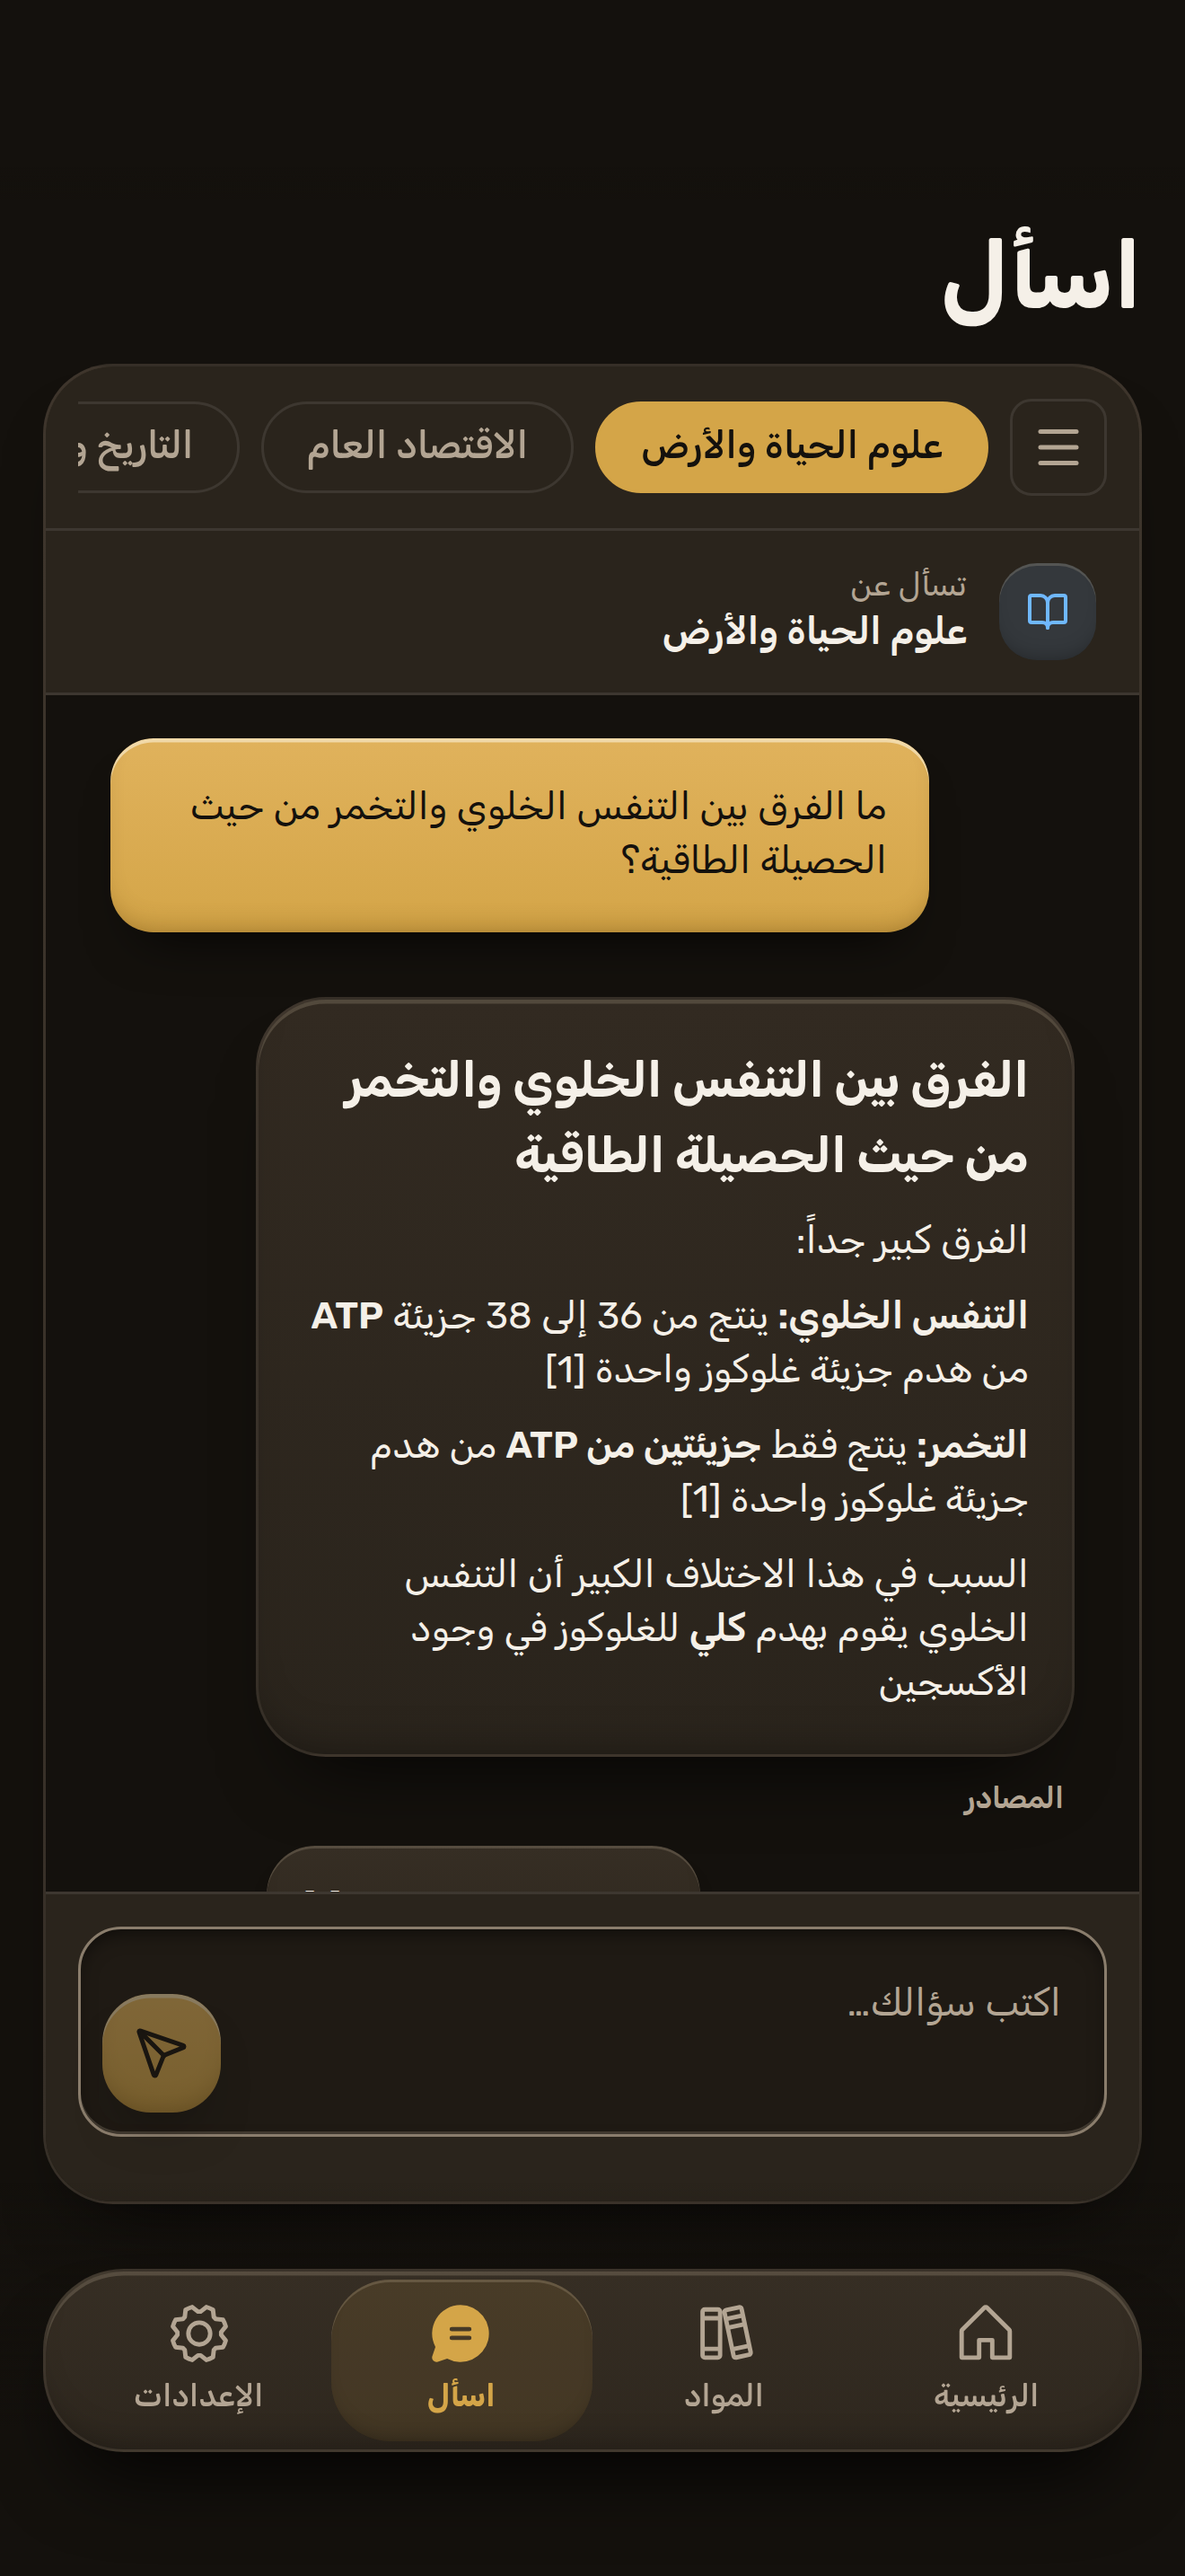
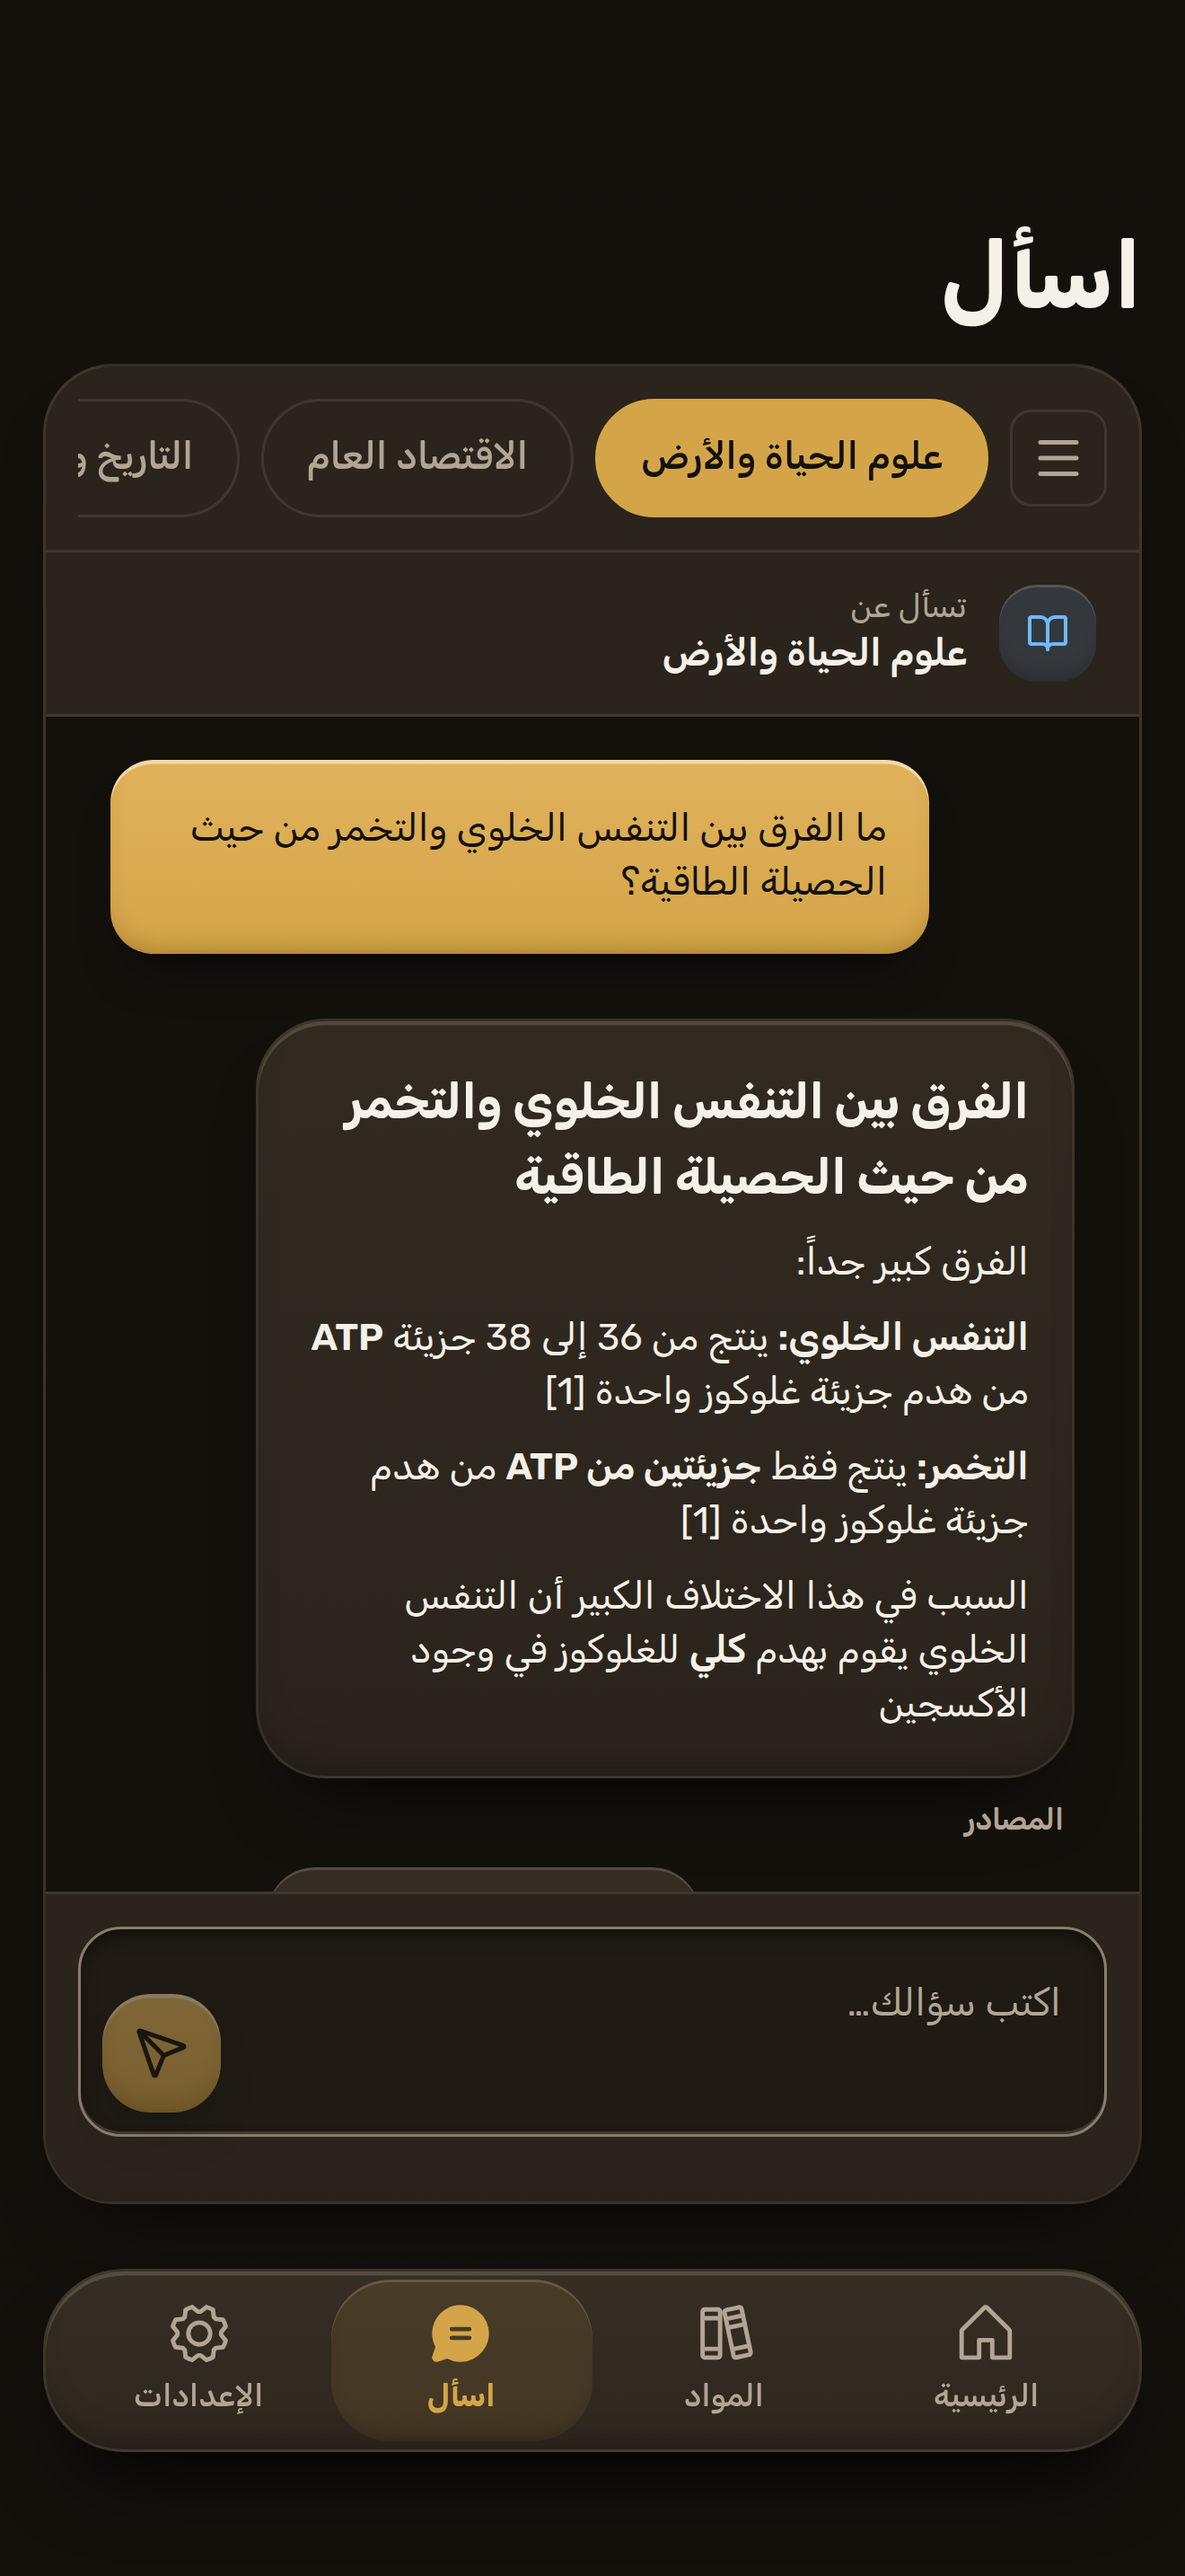
feat(legal, ask): the operator named on privacy and terms; Ask subject chips 44 pt (#284)
* feat(legal, ask): the operator named on the privacy and terms pages; Ask's subject chips 44 pt tall

Owner decisions of 2026-10-15. The privacy policy and the terms name
Abdelfettah Amellah, the individual seller of this account, as the person
who operates KnowFlow (the privacy page said "an independent developer";
the terms named nobody). Name only, no address or phone; the support
address is unchanged. Both pages are English on /ar as before, so there is
no Arabic text to change; the native twins re-export these pages.

Ask's subject chips were 34 px tall (20 px line, 6 px padding each side,
1 px borders), kept so only while store shot ar/04 needed them. The
screenshots are uploaded, so the chips are now min-h-11 (44 pt), the text
unchanged and centred.

* docs(review): the Ask chip renders before and after; the fit check expects the taller subject bar; Section 7 block

The four review renders of the Ask screen (ar and en, dark; before and
after the 44 pt chips) under docs/design/ask-chips/, from the PR's own
redesign-built run 38810697192; the seven drifted renders of
docs/store/fix-renders-2/ refreshed from the same run.

render-fix2.mjs: the "known open item" exemption for the 34 pt chips is
gone (the 44 x 44 target check now covers them), and the Store-Fix-2 fit
calibration expects the device's list height less the 8 px the taller
subject bar takes.

docs/PROGRESS.md Section 7: one block (operator decision, chips, the light
[…]

diff --git a/src/app/[locale]/(site)/terms/page.tsx b/src/app/[locale]/(site)/terms/page.tsx
@@ -10,10 +10,10 @@ export default async function TermsPage({ params }: { params: Promise<{ locale: 
     <div className="py-24" dir={isRtl ? 'rtl' : 'ltr'}>
       <div className="max-w-3xl mx-auto px-6 text-muted-foreground text-start">
         <h1 className="text-5xl font-bold mb-4 text-foreground">Terms of Service</h1>
-        <p className="text-sm uppercase tracking-wide font-medium text-primary mb-12">Last updated: September 2026</p>
+        <p className="text-sm uppercase tracking-wide font-medium text-primary mb-12">Last updated: October 2026</p>
 
         <h2 className="text-2xl font-semibold mt-8 mb-4 text-foreground">Acceptance of Terms</h2>
-        <p className="mb-6">By accessing or using KnowFlow, you agree to be bound by these Terms of Service. If you do not agree to these terms, please do not use our platform.</p>
+        <p className="mb-6">By accessing or using KnowFlow, you agree to be bound by these Terms of Service. They are an agreement between you and Abdelfettah Amellah, who operates KnowFlow; the contact address at the end of this page reaches the person responsible for it. If you do not agree to these terms, please do not use our platform.</p>
 
         <h2 className="text-2xl font-semibold mt-8 mb-4 text-foreground">Use of Service</h2>
         <p className="mb-6">You agree to use KnowFlow only for lawful purposes. You must not misuse the platform, attempt to reverse engineer our proprietary algorithms, or disrupt the service for other users.</p>

diff --git a/src/components/agent/SubjectChips.tsx b/src/components/agent/SubjectChips.tsx
@@ -21,6 +21,10 @@ export function SubjectChips({
   selectedId: string;
   onPick: (id: string) => void;
 }) {
+  // 44 pt tall (min-h-11): the iOS tap target. The chips were 34 px (20 px
+  // line, 6 px padding each side, 1 px borders) and stayed so only while the
+  // store shot ar/04 needed them (Store-Shots-1); the screenshots are uploaded,
+  // so the target wins. Height, not font: the text stays text-sm, centred.
   return (
     <div className="flex gap-2 overflow-x-auto">
       {subjects.map((kb) => (
@@ -30,7 +34,7 @@ export function SubjectChips({
           onClick={() => onPick(kb.id)}
           aria-pressed={selectedId === kb.id}
           className={cn(
-            'whitespace-nowrap rounded-full border px-4 py-1.5 text-sm font-medium transition-colors',
+            'inline-flex min-h-11 items-center whitespace-nowrap rounded-full border px-4 py-1.5 text-sm font-medium transition-colors',
             selectedId === kb.id
               ? 'border-primary bg-primary text-primary-foreground'
               : 'border-border text-muted-foreground hover:border-primary hover:text-foreground',

diff --git a/src/app/[locale]/(site)/privacy/page.tsx b/src/app/[locale]/(site)/privacy/page.tsx
@@ -12,7 +12,7 @@ export default async function PrivacyPage({ params }: { params: Promise<{ locale
         <h1 className="text-5xl font-bold mb-4 text-foreground">Privacy Policy</h1>
         <p className="text-sm uppercase tracking-wide font-medium text-primary mb-12">Last updated: October 2026</p>
 
-        <p className="mb-6">This Privacy Policy applies to KnowFlow, the study service at tryknowflow.com. KnowFlow is operated by an independent developer, and the contact address given below reaches the person responsible for it.</p>
+        <p className="mb-6">This Privacy Policy applies to KnowFlow, the study service at tryknowflow.com. KnowFlow is operated by Abdelfettah Amellah, and the contact address given below reaches the person responsible for it.</p>
 
         <h2 className="text-2xl font-semibold mt-8 mb-4 text-foreground">Information We Collect</h2>
         <p className="mb-6">We collect information you provide directly to us when you create an account, upload materials, or contact us. This includes your name, your email address, and the content of the files you upload to your subjects.</p>

diff --git a/docs/PROGRESS.md b/docs/PROGRESS.md
@@ -451,6 +451,15 @@ bodies total 37,095 bytes. **This retires the Option C frozen-tail invariant by 
 existed only to police a boundary inside an unreviewable single line, and the append-only rule above
 supersedes it. No bespoke hash is needed for future updates: the diff is the proof.
 
+### 2026-10-15 - The operator named on the legal pages; Ask's subject chips 44 pt; the S7d live runs recorded
+
+**No row is edited** (rows 42, 69 and 81 untouched). No TestFlight or other macOS dispatch; no ios-smoke run is triggered (nothing under ios/, android/ or native/ changed).
+
+- **Operator (owner decision 2026-10-15):** the privacy policy and the terms name Abdelfettah Amellah, the individual seller of this account, as the person who operates KnowFlow. `src/app/[locale]/(site)/privacy/page.tsx` line 15 ("an independent developer" replaced); `src/app/[locale]/(site)/terms/page.tsx` line 13 (date to October 2026) and line 16 (one sentence added to Acceptance of Terms). Name only, no address or phone; the support address is unchanged. Both pages are English on /ar as before, so no Arabic text exists to change; the native twins re-export them; no structured data, contact page or docs/store file names the operator. The wording rule finds nothing in the new sentences.
+- **Ask subject chips 44 pt:** the `SubjectChips` buttons carry `inline-flex min-h-11 items-center`. Measured on the render of /preview/ask?view=capture (1320 x 2868 at 3x): the selected chip spans 102 px (34.0 pt) before and 132 px (44.0 pt) after, in ar and en alike, and the render audit's 44 x 44 target check passes on every chip, so its "known open item" exemption for the 34 pt chips is removed from `scripts/redesign-built/render-fix2.mjs`. The subject bar is 8 px taller, so the Ask list is 8 px shorter than the device capture ar/04 that the Store-Fix-2 fit measurement reproduces; that check now expects the device's list less 8 (`CHIP_BAR_GROWTH`). The four review renders are committed under `docs/design/ask-chips/` as {ar,en}-dark-ask-{before,after}.png (docs/design is where the other review renders live, so they sit together rather than in a new docs/review tree), and the seven drifted renders of `docs/store/fix-renders-2/` are refreshed from the PR's own redesign-built run 38810697192. The uploaded store shot ar/04 still shows the 34 pt chips; the listing is not re-captured for this.
+- **Light theme, report only:** the signed-in run never leaves the dark theme (the app defaults to dark through the kf-theme cookie and no step taps Appearance), so its white-strip check (the bottom band under the tab bar must be #14110d) proves nothing for light mode. One reading would: in Settings tap the Light control of the theme toggle, take the home-bottom shot and run the same band check against the light page colour #faf7f2. Not added here.
+- **S7d live runs today:** english 38795422677 (the en-US App Info localization created; the version localization 62a4db70 auto-created by App Store Connect and patched; read-back hashes equal to the approved file) and screenshots 38807930752 (en-US set 7dbe6e42 with five COMPLETE screenshots, checksums equal to the files; ar-SA logged unchanged with zero writes). Watch item: the relayed signed-in run 38784076556 for 7e2a1e2 failed 1 of 48 readings on a 21.2 s first byte for the static /ar/contact; every content reading passed; not re-run.
+
 ### 2026-10-15 - S7d: the English listing live on App Store Connect; the screenshots mode no longer deletes an approved set for nothing
 
 **No row is edited** (rows 42, 69 and 81 untouched). This PR dispatches nothing and runs no macOS job (scripts/asc and docs only).
